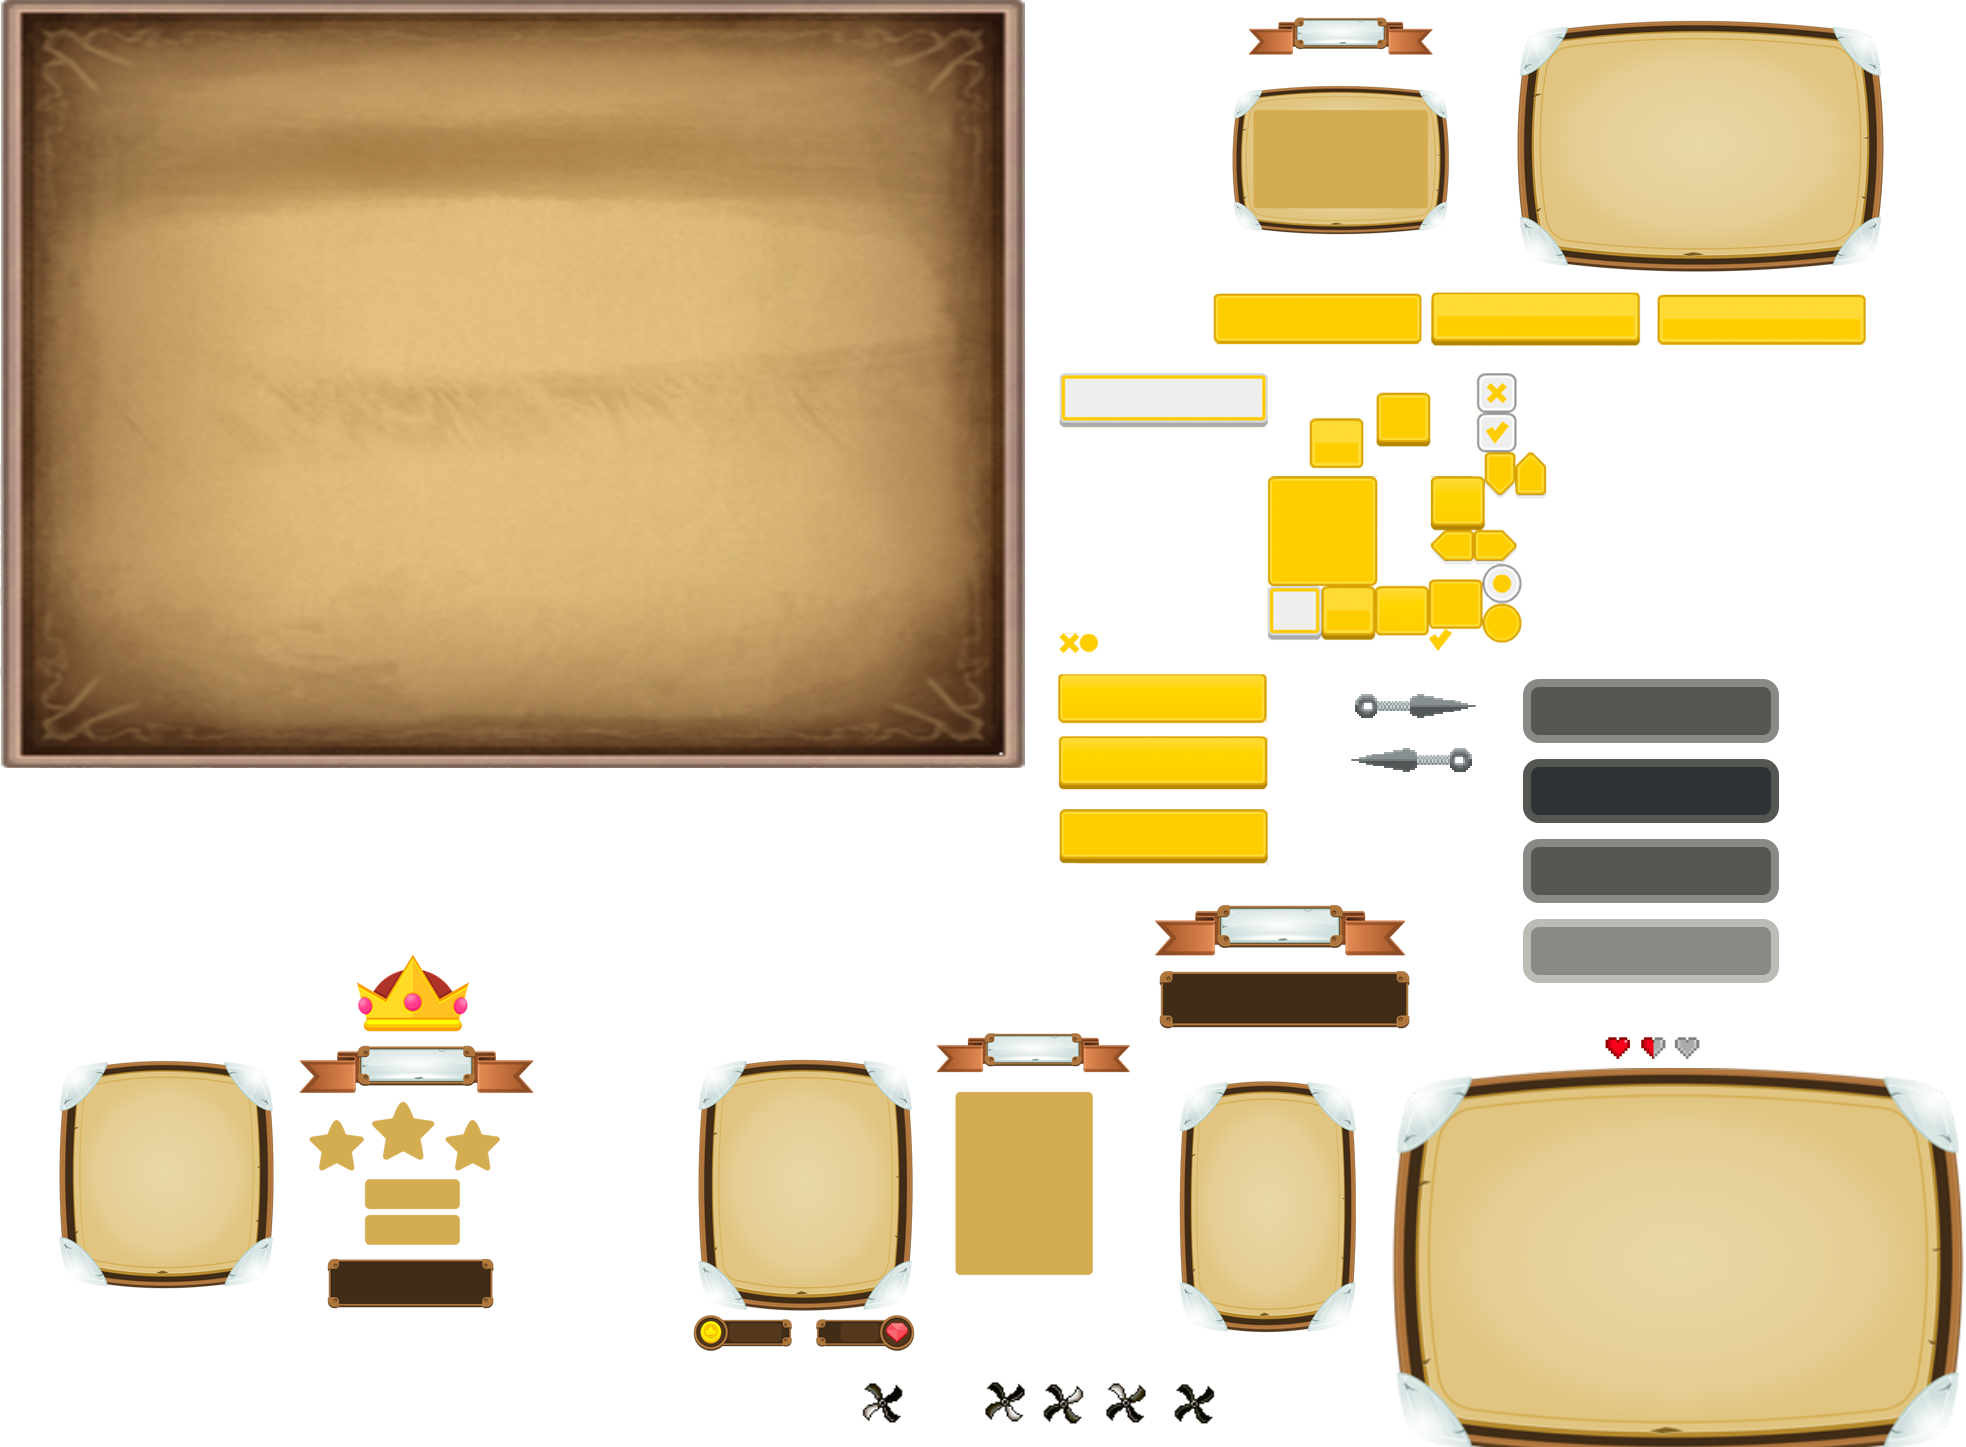
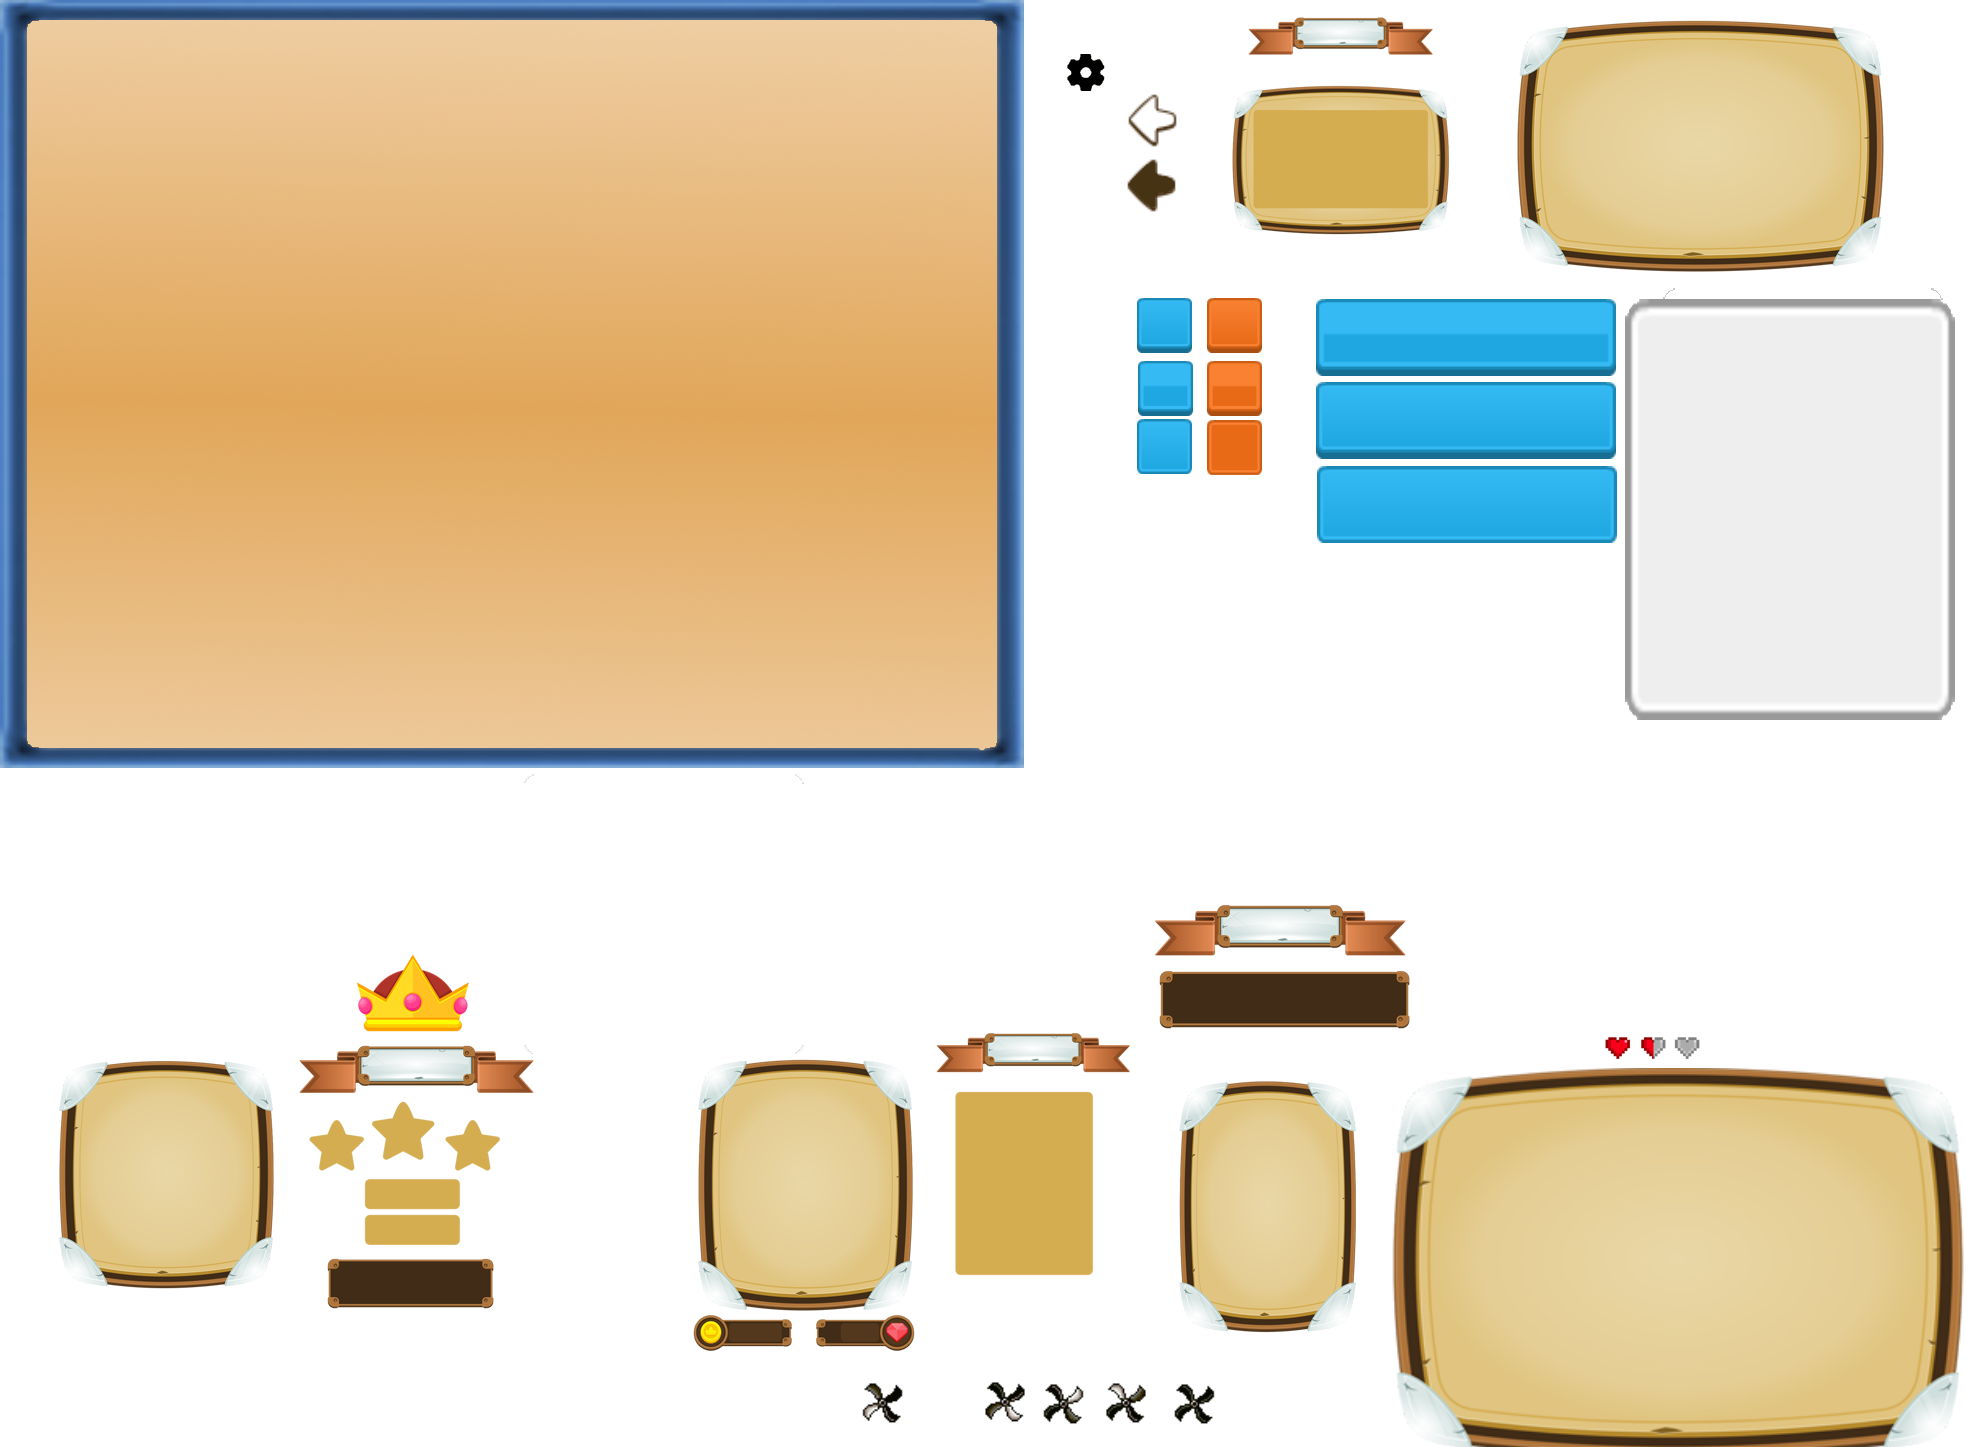
Main Menu nearly finished

Changed region(s): [[0.0, 0.0, 1.0, 0.6842], [0.5585, 0.0622, 0.5895, 0.1555]]

diff --git a/Game-Exercise/Motor2D/MainMenu.cpp b/Game-Exercise/Motor2D/MainMenu.cpp
@@ -48,10 +48,16 @@ bool MainMenu::Start()
 
 	//MENU _UI
 	background = App->gui->AddImage(0, 0, &bck,nullptr);
-	btn_play = App->gui->AddButton(App->win->width/2 -150,50, { 1523,919,256,64 } , { 1523,679,256,64 }, { 1523,759,256,64 });
-	btn_exit = App->gui->AddButton(App->win->width / 2 - 150, 150, { 1523,919,256,64 }, { 1523,679,256,64 }, { 1523,759,256,64 });
-	if(root.child("entities").child("player").child("position").attribute("x").as_int() != NULL)
-	btn_settings = App->gui->AddButton(App->win->width / 2 - 150, 250, { 1523,919,256,64 }, { 1523,679,256,64 }, { 1523,759,256,64 });
+	background = App->gui->AddImage(App->win->width/2 - 165, 150, &bck2, nullptr);
+
+	btn_play = App->gui->AddButton(App->win->width/2 -150,180 , { 1316,382,300,77 }, { 1316,299,300,77 }, { 1317,466,300,77 });
+	if (root.child("entities").child("player").child("position").attribute("x").as_int() != NULL)
+	btn_continue = App->gui->AddButton(App->win->width / 2 - 150, 320,{ 1316,382,300,77 }, { 1316,299,300,77 },{ 1317,466,300,77 });
+
+	btn_credits = App->gui->AddButton(App->win->width / 2 - 150, 460, { 1316,382,300,77 }, { 1316,299,300,77 },{ 1317,466,300,77 });
+	btn_settings = App->gui->AddButton(App->win->width - 150, 150, { 1137,298,55,55 }, { 1138,361,55,55 }, { 1137,419,55,55 });
+
+	btn_exit = App->gui->AddButton(App->win->width - 150, 50, { 1207,298,55,55 }, { 1207,361,55,55 }, { 1207,420,55,55 });
 
 	return true;
 }
@@ -69,10 +75,11 @@ bool MainMenu::Update(float dt)
 	BROFILER_CATEGORY("SceneUpdate", Profiler::Color::MediumOrchid);
 	//DEBUG KEYS
 	MouseIn(btn_play);
-	MouseIn(btn_exit);
-	if(btn_settings!=nullptr)
 	MouseIn(btn_settings);
-
+	MouseIn(btn_credits);
+	MouseIn(btn_exit);
+	if (btn_continue != nullptr)
+	MouseIn(btn_continue);
 
 	App->input->GetMousePosition(mouse_x, mouse_y);
 	return true;
@@ -107,8 +114,8 @@ void MainMenu::MouseIn(GUI* element)
 		{
 			ex2->setAnimation(2);
 			if (delete_kunais == false) {
-				kunai_left = App->gui->AddImage(element->position.x - 60, element->position.y + 10,nullptr, &App->gui->shuriken);
-				kunai_right = App->gui->AddImage(element->position.x + 270, element->position.y + 10, nullptr, &App->gui->shuriken);
+			//	kunai_left = App->gui->AddImage(element->position.x - 60, element->position.y + 10,nullptr, &App->gui->shuriken);
+				//kunai_right = App->gui->AddImage(element->position.x + 270, element->position.y + 10, nullptr, &App->gui->shuriken);
 				delete_kunais = true;
 			}
 		}
@@ -116,9 +123,7 @@ void MainMenu::MouseIn(GUI* element)
 		{
 			if (App->input->GetMouseButtonDown(SDL_BUTTON_LEFT) == KEY_REPEAT)
 			{
-
 				ex2->setAnimation(3);
-
 				Interact(element);
 			}
 		}
@@ -137,7 +142,7 @@ void MainMenu::MouseIn(GUI* element)
 
 void MainMenu::Interact(GUI* g)
 {
-	if (g->position.y == 50)
+	if (g->position.y == 180)
 	{
 		App->fade_to_black->FadeToBlack(this,App->scene, 3.0f);
 		App->gui->DestroyAllUi();
@@ -146,7 +151,16 @@ void MainMenu::Interact(GUI* g)
 		
 		this->active = false;
 	}
-	else if (g->position.y == 250)
+	else if(g->position.y == 320)
+	{ 
+	}
+	else if (g->position.y == 460)
+	{
+	}
+	else if (g->position.y == 600)
+	{
+	}
+	else if (g->position.y == 50)
 	{
 		App->gui->DestroyAllUi();
 		close = true;

diff --git a/Game-Exercise/Motor2D/MainMenu.h b/Game-Exercise/Motor2D/MainMenu.h
@@ -46,13 +46,18 @@ private:
 	bool close = false;
 
 	GUI* background = nullptr;
+	GUI* background2 = nullptr;
+	GUI* cross = nullptr;
 	GUI* btn_play = nullptr;
+	GUI* btn_continue = nullptr;
 	GUI* btn_settings = nullptr;
+	GUI* btn_credits = nullptr;
 	GUI* btn_exit = nullptr;
 	GUI* kunai_left = nullptr;
 	GUI* kunai_right = nullptr;
 
 	SDL_Rect bck = { 0,0,1024,768 };
+	SDL_Rect bck2 = { 1625,299,330,421 };
 	
 
 public:

diff --git a/Game-Exercise/Motor2D/j1Entities.cpp b/Game-Exercise/Motor2D/j1Entities.cpp
@@ -38,8 +38,6 @@ bool j1Entities::Awake(pugi::xml_node& config)
 bool j1Entities::Start()
 {
 	bool ret = true;
-
-
 	return ret;
 }
 
